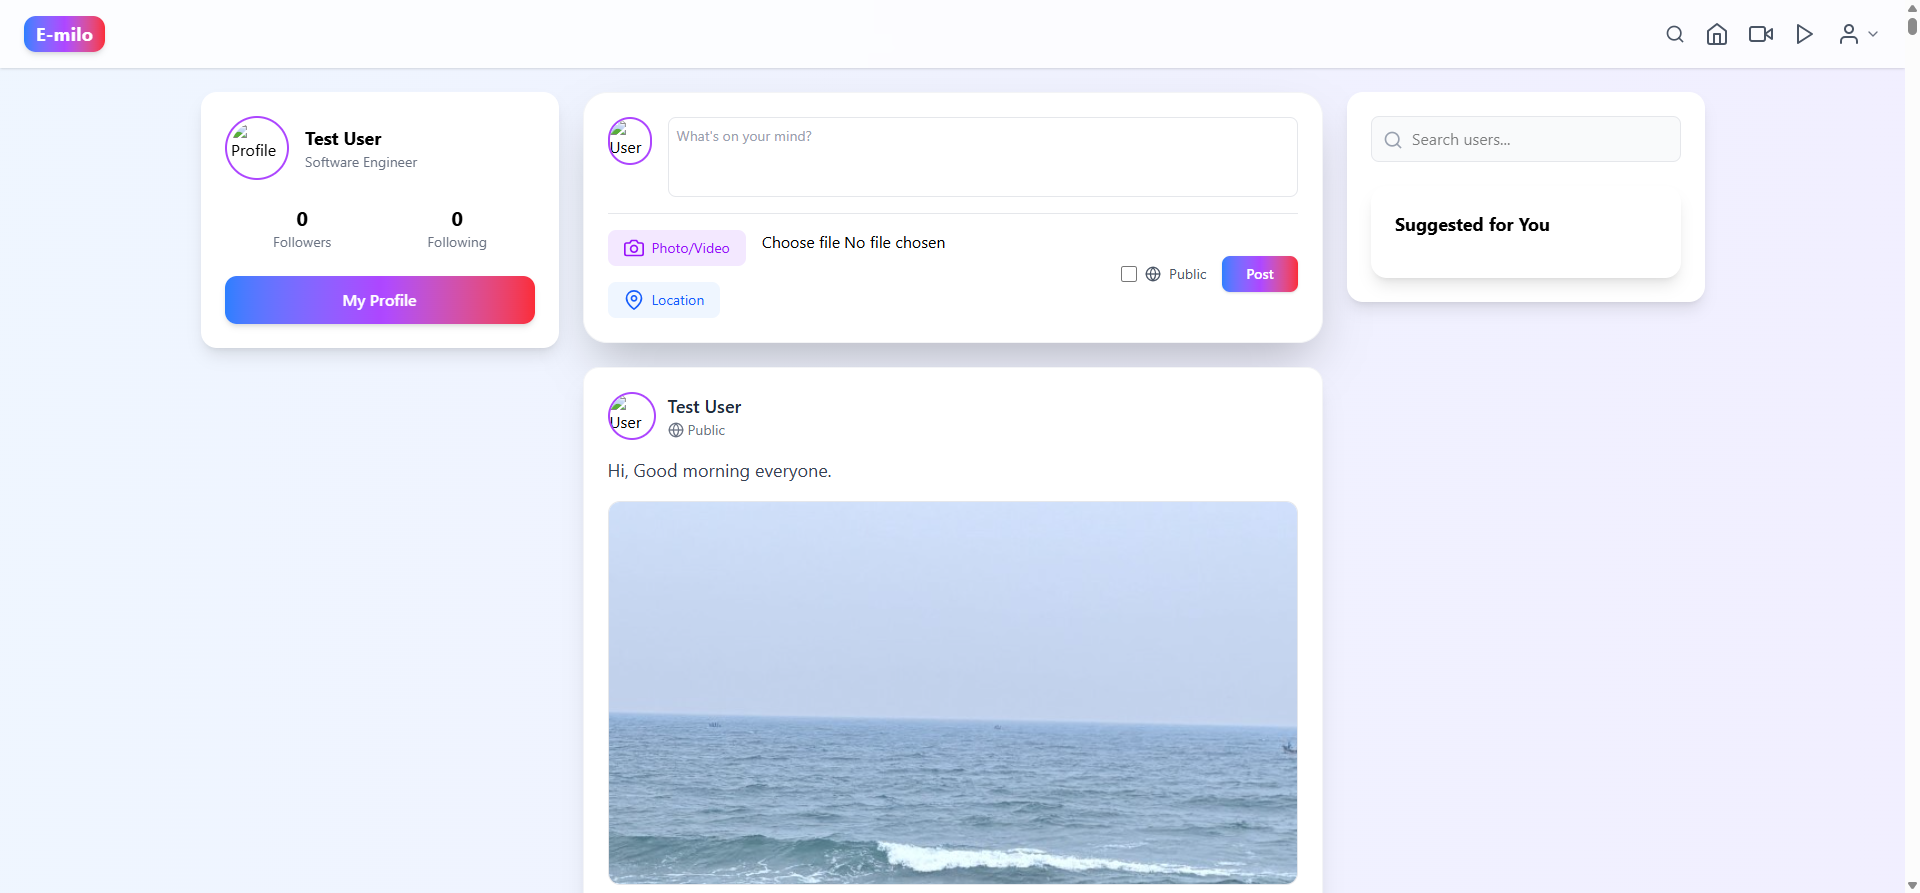
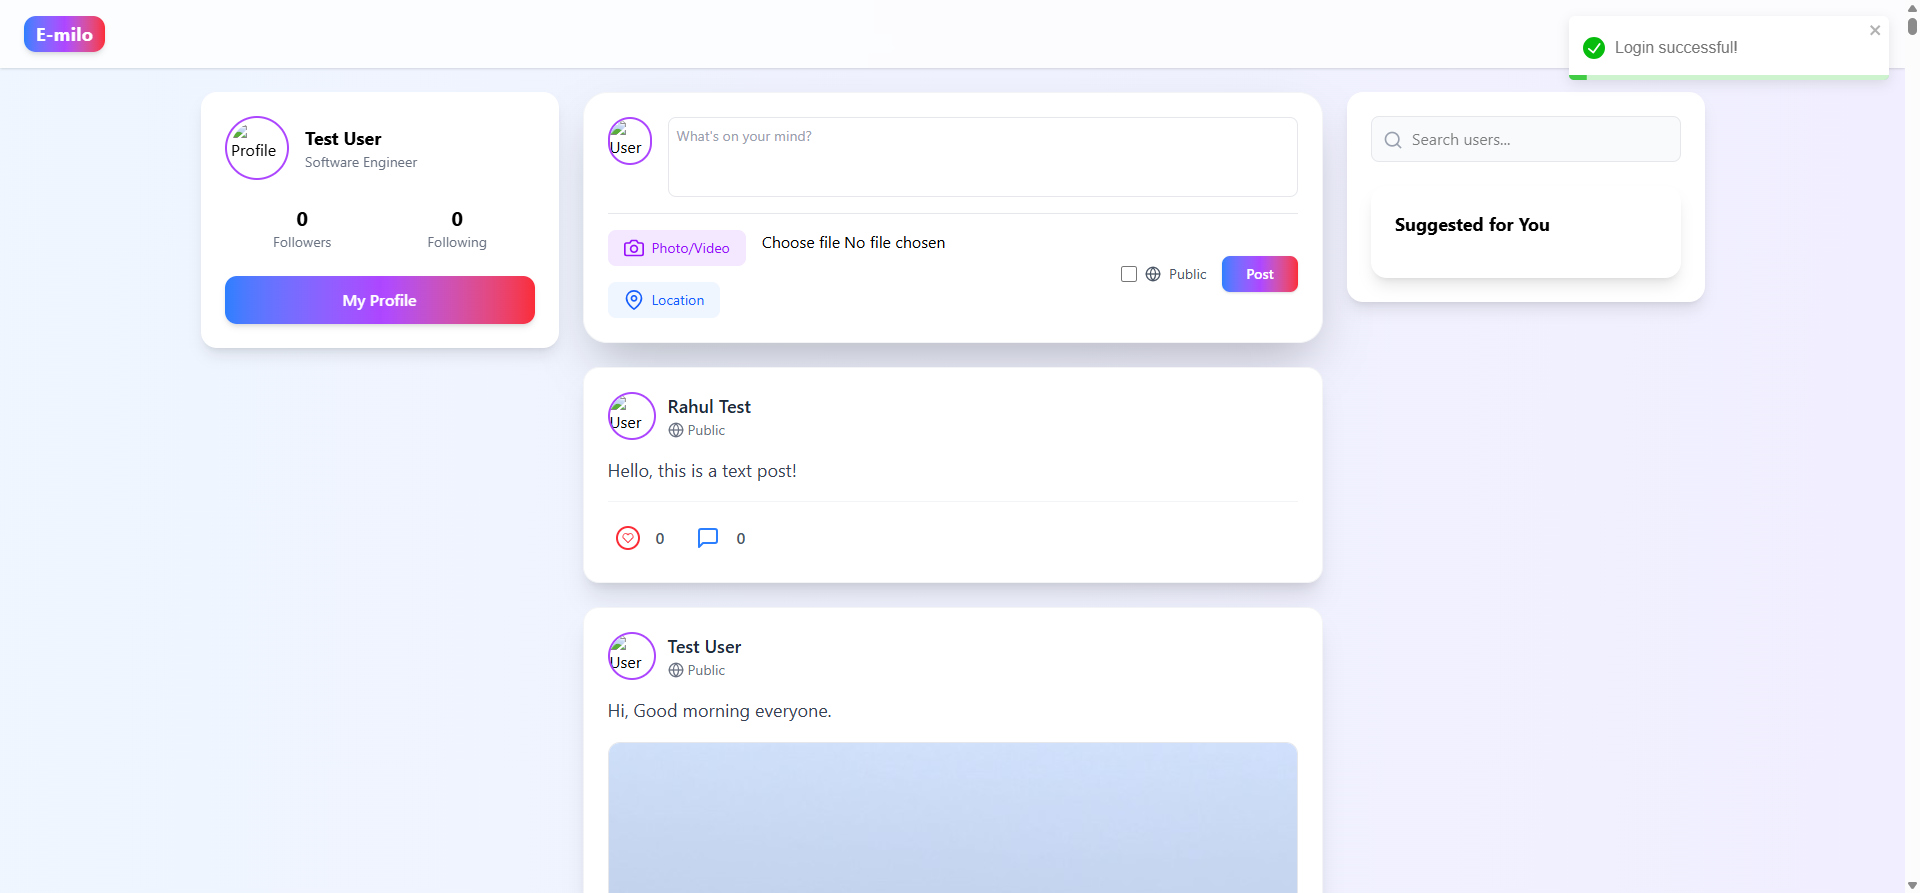
Pushed all changes including scripts, screenshots, and reports

Changed region(s): [[0.2812, 0.514, 0.6875, 1.0], [0.8125, 0.0302, 1.0, 0.0907], [0.3438, 0.4535, 0.4062, 0.4838]]

diff --git a/reports/report.html b/reports/report.html
@@ -328,7 +328,7 @@ div.media {
   </head>
   <body>
     <h1 id="title">report.html</h1>
-    <p>Report generated on 25-Sep-2025 at 23:10:10 by <a href="https://pypi.python.org/pypi/pytest-html">pytest-html</a>
+    <p>Report generated on 26-Sep-2025 at 17:09:45 by <a href="https://pypi.python.org/pypi/pytest-html">pytest-html</a>
         v4.1.1</p>
     <div id="environment-header">
       <h2>Environment</h2>
@@ -382,7 +382,7 @@ div.media {
         <h2>Summary</h2>
         <div class="additional-summary prefix">
         </div>
-        <p class="run-count">6 tests took 00:00:37.</p>
+        <p class="run-count">1 test took 00:01:09.</p>
         <p class="filter">(Un)check the boxes to filter the results.</p>
         <div class="summary__reload">
           <div class="summary__reload__button hidden" onclick="location.reload()">
@@ -392,10 +392,10 @@ div.media {
         <div class="summary__spacer"></div>
         <div class="controls">
           <div class="filters">
-            <input checked="true" class="filter" name="filter_checkbox" type="checkbox" data-test-result="failed" disabled/>
-            <span class="failed">0 Failed,</span>
-            <input checked="true" class="filter" name="filter_checkbox" type="checkbox" data-test-result="passed" />
-            <span class="passed">6 Passed,</span>
+            <input checked="true" class="filter" name="filter_checkbox" type="checkbox" data-test-result="failed" />
+            <span class="failed">1 Failed,</span>
+            <input checked="true" class="filter" name="filter_checkbox" type="checkbox" data-test-result="passed" disabled/>
+            <span class="passed">0 Passed,</span>
             <input checked="true" class="filter" name="filter_checkbox" type="checkbox" data-test-result="skipped" disabled/>
             <span class="skipped">0 Skipped,</span>
             <input checked="true" class="filter" name="filter_checkbox" type="checkbox" data-test-result="xfailed" disabled/>
@@ -429,7 +429,7 @@ div.media {
     </table>
   </body>
   <footer>
-    <div id="data-container" data-jsonblob="{&#34;environment&#34;: {&#34;Python&#34;: &#34;3.11.9&#34;, &#34;Platform&#34;: &#34;Windows-10-10.0.22631-SP0&#34;, &#34;Packages&#34;: {&#34;pytest&#34;: &#34;8.4.2&#34;, &#34;pluggy&#34;: &#34;1.6.0&#34;}, &#34;Plugins&#34;: {&#34;html&#34;: &#34;4.1.1&#34;, &#34;metadata&#34;: &#34;3.1.1&#34;}}, &#34;tests&#34;: {&#34;tests/test_flow.py::test_a_register_user&#34;: [{&#34;extras&#34;: [], &#34;result&#34;: &#34;Passed&#34;, &#34;testId&#34;: &#34;tests/test_flow.py::test_a_register_user&#34;, &#34;duration&#34;: &#34;00:00:07&#34;, &#34;resultsTableRow&#34;: [&#34;&lt;td class=\&#34;col-result\&#34;&gt;Passed&lt;/td&gt;&#34;, &#34;&lt;td class=\&#34;col-testId\&#34;&gt;tests/test_flow.py::test_a_register_user&lt;/td&gt;&#34;, &#34;&lt;td class=\&#34;col-duration\&#34;&gt;00:00:07&lt;/td&gt;&#34;, &#34;&lt;td class=\&#34;col-links\&#34;&gt;&lt;/td&gt;&#34;], &#34;log&#34;: &#34;No log output captured.&#34;}], &#34;tests/test_flow.py::test_b_create_post&#34;: [{&#34;extras&#34;: [], &#34;result&#34;: &#34;Passed&#34;, &#34;testId&#34;: &#34;tests/test_flow.py::test_b_create_post&#34;, &#34;duration&#34;: &#34;00:00:05&#34;, &#34;resultsTableRow&#34;: [&#34;&lt;td class=\&#34;col-result\&#34;&gt;Passed&lt;/td&gt;&#34;, &#34;&lt;td class=\&#34;col-testId\&#34;&gt;tests/test_flow.py::test_b_create_post&lt;/td&gt;&#34;, &#34;&lt;td class=\&#34;col-duration\&#34;&gt;00:00:05&lt;/td&gt;&#34;, &#34;&lt;td class=\&#34;col-links\&#34;&gt;&lt;/td&gt;&#34;], &#34;log&#34;: &#34;No log output captured.&#34;}], &#34;tests/test_flow.py::test_c_view_post&#34;: [{&#34;extras&#34;: [], &#34;result&#34;: &#34;Passed&#34;, &#34;testId&#34;: &#34;tests/test_flow.py::test_c_view_post&#34;, &#34;duration&#34;: &#34;00:00:04&#34;, &#34;resultsTableRow&#34;: [&#34;&lt;td class=\&#34;col-result\&#34;&gt;Passed&lt;/td&gt;&#34;, &#34;&lt;td class=\&#34;col-testId\&#34;&gt;tests/test_flow.py::test_c_view_post&lt;/td&gt;&#34;, &#34;&lt;td class=\&#34;col-duration\&#34;&gt;00:00:04&lt;/td&gt;&#34;, &#34;&lt;td class=\&#34;col-links\&#34;&gt;&lt;/td&gt;&#34;], &#34;log&#34;: &#34;No log output captured.&#34;}], &#34;tests/test_flow.py::test_d_comment_post&#34;: [{&#34;extras&#34;: [], &#34;result&#34;: &#34;Passed&#34;, &#34;testId&#34;: &#34;tests/test_flow.py::test_d_comment_post&#34;, &#34;duration&#34;: &#34;00:00:05&#34;, &#34;resultsTableRow&#34;: [&#34;&lt;td class=\&#34;col-result\&#34;&gt;Passed&lt;/td&gt;&#34;, &#34;&lt;td class=\&#34;col-testId\&#34;&gt;tests/test_flow.py::test_d_comment_post&lt;/td&gt;&#34;, &#34;&lt;td class=\&#34;col-duration\&#34;&gt;00:00:05&lt;/td&gt;&#34;, &#34;&lt;td class=\&#34;col-links\&#34;&gt;&lt;/td&gt;&#34;], &#34;log&#34;: &#34;No log output captured.&#34;}], &#34;tests/test_flow.py::test_e_like_post&#34;: [{&#34;extras&#34;: [], &#34;result&#34;: &#34;Passed&#34;, &#34;testId&#34;: &#34;tests/test_flow.py::test_e_like_post&#34;, &#34;duration&#34;: &#34;00:00:04&#34;, &#34;resultsTableRow&#34;: [&#34;&lt;td class=\&#34;col-result\&#34;&gt;Passed&lt;/td&gt;&#34;, &#34;&lt;td class=\&#34;col-testId\&#34;&gt;tests/test_flow.py::test_e_like_post&lt;/td&gt;&#34;, &#34;&lt;td class=\&#34;col-duration\&#34;&gt;00:00:04&lt;/td&gt;&#34;, &#34;&lt;td class=\&#34;col-links\&#34;&gt;&lt;/td&gt;&#34;], &#34;log&#34;: &#34;No log output captured.&#34;}], &#34;tests/test_flow.py::test_z_login_flow&#34;: [{&#34;extras&#34;: [], &#34;result&#34;: &#34;Passed&#34;, &#34;testId&#34;: &#34;tests/test_flow.py::test_z_login_flow&#34;, &#34;duration&#34;: &#34;00:00:12&#34;, &#34;resultsTableRow&#34;: [&#34;&lt;td class=\&#34;col-result\&#34;&gt;Passed&lt;/td&gt;&#34;, &#34;&lt;td class=\&#34;col-testId\&#34;&gt;tests/test_flow.py::test_z_login_flow&lt;/td&gt;&#34;, &#34;&lt;td class=\&#34;col-duration\&#34;&gt;00:00:12&lt;/td&gt;&#34;, &#34;&lt;td class=\&#34;col-links\&#34;&gt;&lt;/td&gt;&#34;], &#34;log&#34;: &#34;No log output captured.&#34;}]}, &#34;renderCollapsed&#34;: [&#34;passed&#34;], &#34;initialSort&#34;: &#34;result&#34;, &#34;title&#34;: &#34;report.html&#34;}"></div>
+    <div id="data-container" data-jsonblob="{&#34;environment&#34;: {&#34;Python&#34;: &#34;3.11.9&#34;, &#34;Platform&#34;: &#34;Windows-10-10.0.22631-SP0&#34;, &#34;Packages&#34;: {&#34;pytest&#34;: &#34;8.4.2&#34;, &#34;pluggy&#34;: &#34;1.6.0&#34;}, &#34;Plugins&#34;: {&#34;html&#34;: &#34;4.1.1&#34;, &#34;metadata&#34;: &#34;3.1.1&#34;}}, &#34;tests&#34;: {&#34;tests/test_flow.py::test_full_social_flow&#34;: [{&#34;extras&#34;: [], &#34;result&#34;: &#34;Failed&#34;, &#34;testId&#34;: &#34;tests/test_flow.py::test_full_social_flow&#34;, &#34;duration&#34;: &#34;00:01:09&#34;, &#34;resultsTableRow&#34;: [&#34;&lt;td class=\&#34;col-result\&#34;&gt;Failed&lt;/td&gt;&#34;, &#34;&lt;td class=\&#34;col-testId\&#34;&gt;tests/test_flow.py::test_full_social_flow&lt;/td&gt;&#34;, &#34;&lt;td class=\&#34;col-duration\&#34;&gt;00:01:09&lt;/td&gt;&#34;, &#34;&lt;td class=\&#34;col-links\&#34;&gt;&lt;/td&gt;&#34;], &#34;log&#34;: &#34;def test_full_social_flow():\n        driver = webdriver.Chrome()\n        driver.maximize_window()\n        try:\n            email = generate_unique_email()\n    \n            # Register\n            register(driver, email)\n            driver.quit()\n    \n            # Login\n            driver = webdriver.Chrome()\n            driver.maximize_window()\n            login(driver, email)\n    \n            # Create posts\n            create_post(driver, text=&amp;quot;Hello, this is a text post!&amp;quot;)\n            create_post(driver, image_path=IMAGE_FILE)\n            create_post(driver, video_path=VIDEO_FILE)\n    \n            # Like &amp;amp; Comment latest post\n&amp;gt;           like_and_comment_latest_post(driver, comment_text=&amp;quot;This is awesome!&amp;quot;)\n\ntests\\test_flow.py:134: \n_ _ _ _ _ _ _ _ _ _ _ _ _ _ _ _ _ _ _ _ _ _ _ _ _ _ _ _ _ _ _ _ _ _ _ _ _ _ _ _ _ _ _ _ _ _ _ _ _ _ _ _ _ _ _ _ _ _ _ _ _ _ _ _ _ _ _ _ _ _ _ _ _ _ _ _ _ _ _ _ _ _ _ _ _ _ _ _ _ _ _ _ _ _ _ _ _ _ _ _ _ _ _ _ _ _ _ _ _ _ _ _ _ _\ntests\\test_flow.py:91: in like_and_comment_latest_post\n    posts = WebDriverWait(driver, 15).until(\n_ _ _ _ _ _ _ _ _ _ _ _ _ _ _ _ _ _ _ _ _ _ _ _ _ _ _ _ _ _ _ _ _ _ _ _ _ _ _ _ _ _ _ _ _ _ _ _ _ _ _ _ _ _ _ _ _ _ _ _ _ _ _ _ _ _ _ _ _ _ _ _ _ _ _ _ _ _ _ _ _ _ _ _ _ _ _ _ _ _ _ _ _ _ _ _ _ _ _ _ _ _ _ _ _ _ _ _ _ _ _ _ _ _\n\nself = &amp;lt;selenium.webdriver.support.wait.WebDriverWait (session=&amp;quot;d9cb5bb873a07fbea5927e977846ff88&amp;quot;)&amp;gt;, method = &amp;lt;function presence_of_all_elements_located.&amp;lt;locals&amp;gt;._predicate at 0x0000022781CAFF60&amp;gt;, message = &amp;#x27;&amp;#x27;\n\n    def until(self, method: Callable[[D], Union[Literal[False], T]], message: str = &amp;quot;&amp;quot;) -&amp;gt; T:\n        &amp;quot;&amp;quot;&amp;quot;Wait until the method returns a value that is not False.\n    \n        Calls the method provided with the driver as an argument until the\n        return value does not evaluate to ``False``.\n    \n        Parameters:\n        -----------\n        method: callable(WebDriver)\n            - A callable object that takes a WebDriver instance as an argument.\n    \n        message: str\n            - Optional message for :exc:`TimeoutException`\n    \n        Return:\n        -------\n        object: T\n            - The result of the last call to `method`\n    \n        Raises:\n        -------\n        TimeoutException\n            - If &amp;#x27;method&amp;#x27; does not return a truthy value within the WebDriverWait\n            object&amp;#x27;s timeout\n    \n        Example:\n        --------\n        &amp;gt;&amp;gt;&amp;gt; from selenium.webdriver.common.by import By\n        &amp;gt;&amp;gt;&amp;gt; from selenium.webdriver.support.ui import WebDriverWait\n        &amp;gt;&amp;gt;&amp;gt; from selenium.webdriver.support import expected_conditions as EC\n    \n        # Wait until an element is visible on the page\n        &amp;gt;&amp;gt;&amp;gt; wait = WebDriverWait(driver, 10)\n        &amp;gt;&amp;gt;&amp;gt; element = wait.until(EC.visibility_of_element_located((By.ID, &amp;quot;exampleId&amp;quot;)))\n        &amp;gt;&amp;gt;&amp;gt; print(element.text)\n        &amp;quot;&amp;quot;&amp;quot;\n        screen = None\n        stacktrace = None\n    \n        end_time = time.monotonic() + self._timeout\n        while True:\n            try:\n                value = method(self._driver)\n                if value:\n                    return value\n            except self._ignored_exceptions as exc:\n                screen = getattr(exc, &amp;quot;screen&amp;quot;, None)\n                stacktrace = getattr(exc, &amp;quot;stacktrace&amp;quot;, None)\n            if time.monotonic() &amp;gt; end_time:\n                break\n            time.sleep(self._poll)\n&amp;gt;       raise TimeoutException(message, screen, stacktrace)\nE       selenium.common.exceptions.TimeoutException: Message:\n\n.venv\\Lib\\site-packages\\selenium\\webdriver\\support\\wait.py:138: TimeoutException\n\n----------------------------- Captured stdout call -----------------------------\nRegistration completed with email: rahul.test20250926170837@example.com\nLogin completed with email: rahul.test20250926170837@example.com\nPost created: Hello, this is a text post!\nPost created: C:\\Users\\Rahul\\PycharmProjects\\emilo-socialmedia-selenium\\media\\test_image.jpg\nPost created: C:\\Users\\Rahul\\PycharmProjects\\emilo-socialmedia-selenium\\media\\test_video.mp4\nAll actions completed successfully.\n&#34;}]}, &#34;renderCollapsed&#34;: [&#34;passed&#34;], &#34;initialSort&#34;: &#34;result&#34;, &#34;title&#34;: &#34;report.html&#34;}"></div>
     <script>
       (function(){function r(e,n,t){function o(i,f){if(!n[i]){if(!e[i]){var c="function"==typeof require&&require;if(!f&&c)return c(i,!0);if(u)return u(i,!0);var a=new Error("Cannot find module '"+i+"'");throw a.code="MODULE_NOT_FOUND",a}var p=n[i]={exports:{}};e[i][0].call(p.exports,function(r){var n=e[i][1][r];return o(n||r)},p,p.exports,r,e,n,t)}return n[i].exports}for(var u="function"==typeof require&&require,i=0;i<t.length;i++)o(t[i]);return o}return r})()({1:[function(require,module,exports){
 const { getCollapsedCategory, setCollapsedIds } = require('./storage.js')

diff --git a/tests/test_flow.py b/tests/test_flow.py
@@ -1,59 +1,139 @@
-
-
 import os
-import pytest
+import time
+from datetime import datetime
 from selenium import webdriver
 from selenium.webdriver.common.by import By
-from page.login_page import LoginPage
-from dotenv import load_dotenv
+from selenium.webdriver.support.ui import WebDriverWait
+from selenium.webdriver.support import expected_conditions as EC
 
+# ----------------- Test Data -----------------
+FULL_NAME = "Rahul Test"
+PASSWORD = "Test@123"
+COMMENT_TEXT = "Automated comment on latest post!"
+MEDIA_FOLDER = r"C:\Users\Rahul\PycharmProjects\emilo-socialmedia-selenium\media"
+IMAGE_FILE = os.path.join(MEDIA_FOLDER, "test_image.jpg")
+VIDEO_FILE = os.path.join(MEDIA_FOLDER, "test_video.mp4")
 
-load_dotenv()
-EMAIL = os.getenv("EMAIL")
-PASSWORD = os.getenv("PASSWORD")
+# ----------------- Helper Functions -----------------
+def generate_unique_email():
+    timestamp = datetime.now().strftime("%Y%m%d%H%M%S")
+    return f"rahul.test{timestamp}@example.com"
 
-# ------------------ Fixture to initialize and quit driver ------------------
-@pytest.fixture
-def driver():
+def wait_and_click(driver, css_selector, timeout=15):
+    element = WebDriverWait(driver, timeout).until(
+        EC.element_to_be_clickable((By.CSS_SELECTOR, css_selector))
+    )
+    element.click()
+    time.sleep(2)
+
+def wait_and_send_keys(driver, css_selector, text, timeout=15):
+    element = WebDriverWait(driver, timeout).until(
+        EC.visibility_of_element_located((By.CSS_SELECTOR, css_selector))
+    )
+    element.send_keys(text)
+    time.sleep(1)
+
+# ----------------- Register & Login -----------------
+def register(driver, email):
+    driver.get("https://emilo-live-stream-front.vercel.app/register")
+    wait_and_send_keys(driver, "input[placeholder='Full Name']", FULL_NAME)
+    wait_and_send_keys(driver, "input[placeholder='Email']", email)
+    wait_and_send_keys(driver, "input[placeholder='Password']", PASSWORD)
+    wait_and_send_keys(driver, "input[placeholder='Confirm Password']", PASSWORD)
+    wait_and_click(driver, "button[type='submit']")
+    print(f"Registration completed with email: {email}")
+    time.sleep(5)
+
+def login(driver, email):
+    driver.get("https://emilo-live-stream-front.vercel.app/login")
+    wait_and_send_keys(driver, "input[placeholder='Email']", email)
+    wait_and_send_keys(driver, "input[placeholder='Password']", PASSWORD)
+    wait_and_click(driver, "button[type='submit']")
+    print(f"Login completed with email: {email}")
+    time.sleep(5)
+
+# ----------------- Create Post -----------------
+def create_post(driver, text=None, image_path=None, video_path=None):
+    post_input_css = "textarea[placeholder=\"What's on your mind?\"]"
+    post_input = WebDriverWait(driver, 15).until(
+        EC.presence_of_element_located((By.CSS_SELECTOR, post_input_css))
+    )
+    if text:
+        post_input.send_keys("\n" + text)
+
+    # Upload image or video
+    if image_path or video_path:
+        wait_and_click(driver, "button[class='flex items-center gap-2 text-sm px-4 py-2 rounded-lg bg-purple-50 dark:bg-gray-700 text-purple-600 dark:text-purple-400 hover:bg-purple-100 dark:hover:bg-gray-600 transition']")
+        file_input = WebDriverWait(driver, 10).until(
+            EC.presence_of_element_located((By.CSS_SELECTOR, "input[type='file']"))
+        )
+        if image_path and os.path.exists(image_path):
+            file_input.send_keys(image_path)
+            print("Image selected.")
+            WebDriverWait(driver, 15).until(
+                EC.presence_of_element_located((By.CSS_SELECTOR, "img[src*='test_image']"))
+            )
+        if video_path and os.path.exists(video_path):
+            file_input.send_keys(video_path)
+            print("Video selected.")
+            WebDriverWait(driver, 20).until(
+                EC.presence_of_element_located((By.CSS_SELECTOR, "video"))
+            )
+
+    # Click Post button
+    wait_and_click(driver, "button.bg-gradient-to-r.from-blue-500.via-purple-500.to-red-500.text-white")
+    print(f"Post created: {text or image_path or video_path}")
+    time.sleep(3)
+
+# ----------------- Like & Comment Latest Post -----------------
+def like_and_comment_latest_post(driver, comment_text=COMMENT_TEXT):
+    time.sleep(3)
+    posts = WebDriverWait(driver, 15).until(
+        EC.presence_of_all_elements_located((By.CSS_SELECTOR, "div.flex.flex-col.rounded-xl.bg-white"))
+    )
+    latest_post = posts[0]  # newest post
+    driver.execute_script("arguments[0].scrollIntoView(true);", latest_post)
+    time.sleep(2)
+
+    # Like
+    like_button = latest_post.find_element(By.CSS_SELECTOR, "button[aria-label='Like']")
+    like_button.click()
+    print("Liked the latest post.")
+    time.sleep(2)
+
+    # Comment
+    comment_box = latest_post.find_element(By.CSS_SELECTOR, "textarea[placeholder='Write a comment...']")
+    comment_box.send_keys(comment_text)
+    send_button = latest_post.find_element(By.CSS_SELECTOR, "button[type='submit']")
+    send_button.click()
+    print("Commented on the latest post.")
+    time.sleep(2)
+
+# ----------------- Pytest Test -----------------
+def test_full_social_flow():
     driver = webdriver.Chrome()
     driver.maximize_window()
-    yield driver
-    driver.quit()
+    try:
+        email = generate_unique_email()
 
-# ------------------ Test 1: Register User ------------------
-def test_a_register_user(driver):
-    driver.get("https://emilo-live-stream-front.vercel.app/register")
-    assert True
+        # Register
+        register(driver, email)
+        driver.quit()
 
-# ------------------ Test 2: Create Post ------------------
-def test_b_create_post(driver):
-    driver.get("https://emilo-live-stream-front.vercel.app/create")
-    assert True
-# ------------------ Test 3: View Post ------------------
-def test_c_view_post(driver):
-    driver.get("https://emilo-live-stream-front.vercel.app/view")
-    assert True
+        # Login
+        driver = webdriver.Chrome()
+        driver.maximize_window()
+        login(driver, email)
 
-# ------------------ Test 4: Comment on a Post ------------------
-def test_d_comment_post(driver):
-    driver.get("https://emilo-live-stream-front.vercel.app/")
-    assert True
+        # Create posts
+        create_post(driver, text="Hello, this is a text post!")
+        create_post(driver, image_path=IMAGE_FILE)
+        create_post(driver, video_path=VIDEO_FILE)
 
-# ------------------ Test 5: Like a Post ------------------
-def test_e_like_post(driver):
-    driver.get("https://emilo-live-stream-front.vercel.app/")
-    assert True
+        # Like & Comment latest post
+        like_and_comment_latest_post(driver, comment_text="This is awesome!")
 
-# ------------------ Test 6: Login (run last) ------------------
-def test_z_login_flow(driver):
-    login = LoginPage(driver)
-
-    # Step 1: Open login page
-    login.open()
-
-    # Step 2: Perform login
-    login.login(EMAIL, PASSWORD)
-
-    # Step 3: Verify login success by checking post box
-    post_box = driver.find_elements(By.CSS_SELECTOR, "textarea[placeholder=\"What's on your mind?\"]")
-    assert post_box, "Login failed: post box not found"
+    finally:
+        time.sleep(3)
+        driver.quit()
+        print("All actions completed successfully.")

diff --git a/page/Like.py b/page/Like.py
@@ -1,25 +1,51 @@
+import time
+import pytest
 from selenium import webdriver
 from selenium.webdriver.common.by import By
-from dotenv import load_dotenv
-import os
-import time
+from selenium.webdriver.support.ui import WebDriverWait
+from selenium.webdriver.support import expected_conditions as EC
 
-load_dotenv()
-EMAIL = os.getenv("EMAIL")
-PASSWORD = os.getenv("PASSWORD")
+def test_create_post_only():
+    driver = webdriver.Chrome()
+    driver.maximize_window()
+    try:
+        # Open app login page
+        driver.get("https://your-socialmedia-app.com/login")  # Replace with your app URL
 
-driver = webdriver.Chrome()
-driver.get("https://emilo-live-stream-front.vercel.app/login")
-time.sleep(2)
+        # --- LOGIN ---
+        WebDriverWait(driver, 20).until(
+            EC.visibility_of_element_located((By.NAME, "username"))
+        ).send_keys("your_username")  # Replace with your username
 
-driver.find_element(By.CSS_SELECTOR, "input[placeholder='Email']").send_keys(EMAIL)
-driver.find_element(By.CSS_SELECTOR, "input[placeholder='Password']").send_keys(PASSWORD)
-driver.find_element(By.CSS_SELECTOR, "button[type='submit']").click()
-time.sleep(5)
+        driver.find_element(By.NAME, "password").send_keys("your_password")  # Replace with password
+        driver.find_element(By.CSS_SELECTOR, "button[type='submit']").click()
 
-like_button = driver.find_element(By.CSS_SELECTOR, "body > div:nth-child(1) > div:nth-child(1) > div:nth-child(1) > main:nth-child(2) > section:nth-child(2) > section:nth-child(1) > div:nth-child(2) > div:nth-child(4) > button:nth-child(1) > div:nth-child(1) > svg:nth-child(1)")
-like_button.click()
+        print("Login completed.")
 
-print("Post liked!")
+        # --- CREATE POST ---
+        WebDriverWait(driver, 20).until(
+            EC.element_to_be_clickable((By.CSS_SELECTOR, "button#create-post"))
+        ).click()  # Adjust selector for "Create Post" button
 
-driver.quit()
+        WebDriverWait(driver, 20).until(
+            EC.visibility_of_element_located((By.CSS_SELECTOR, "textarea[placeholder='Write something...']"))
+        ).send_keys("This is an automated post with media.")
+
+        # Attach image
+        driver.find_element(By.CSS_SELECTOR, "input[type='file'][accept*='image']").send_keys(
+            r"C:\Users\Rahul\Pictures\test_image.jpg"
+        )
+
+        # Attach video
+        driver.find_element(By.CSS_SELECTOR, "input[type='file'][accept*='video']").send_keys(
+            r"C:\Users\Rahul\Videos\test_video.mp4"
+        )
+
+        # Submit post
+        driver.find_element(By.CSS_SELECTOR, "button[type='submit']").click()
+        print("Post created successfully.")
+
+        time.sleep(5)  # Wait a bit to ensure post is created
+
+    finally:
+        driver.quit()

diff --git a/page/Createpost.py b/page/Createpost.py
@@ -11,6 +11,7 @@ EMAIL = os.getenv("EMAIL")
 PASSWORD = os.getenv("PASSWORD")
 
 project_root = os.path.dirname(os.path.dirname(os.path.abspath(__file__)))
+print("project root path--",project_root)
 media_folder = os.path.join(project_root, "media")
 image_file = os.path.join(media_folder, "sample_image.jpg")
 video_file = os.path.join(media_folder, "sample_video.mp4.mp4")
@@ -58,6 +59,7 @@ def create_post(text=None, media_path=None):
             driver.find_element(By.CSS_SELECTOR, "button.flex.items-center.gap-2.text-sm.px-4.py-2.rounded-lg.bg-purple-50").click()
             # Directly use input[type='file'] for upload
             file_input = driver.find_element(By.CSS_SELECTOR, "input[type='file']")
+            print("file input---",file_input,media_path)
             file_input.send_keys(media_path)
 
 
